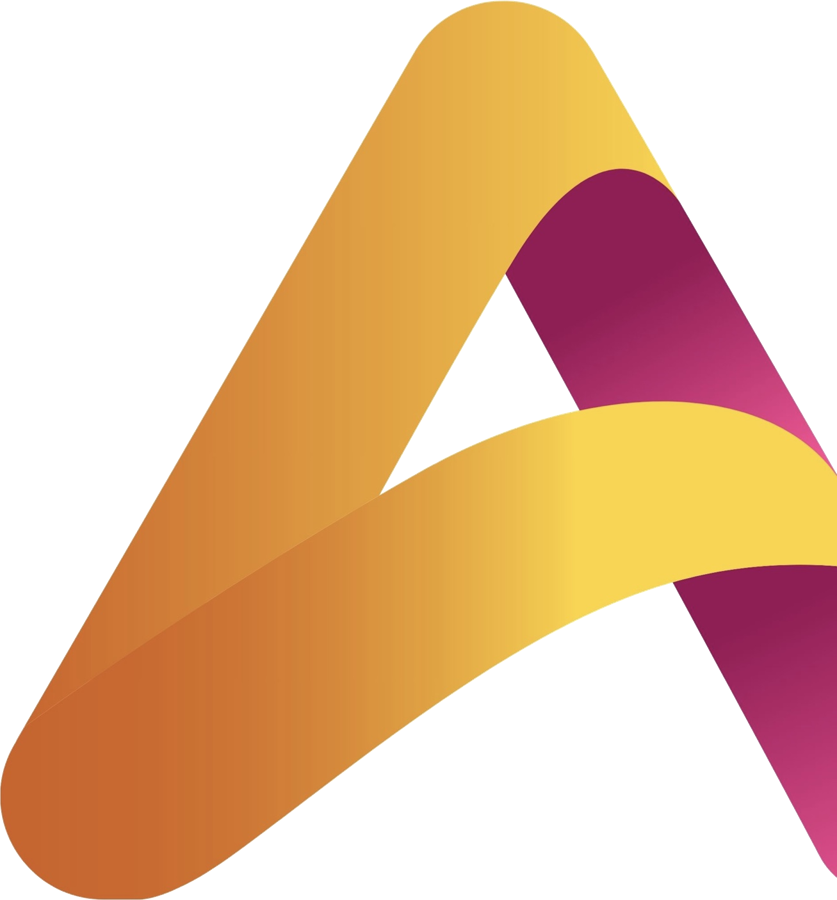
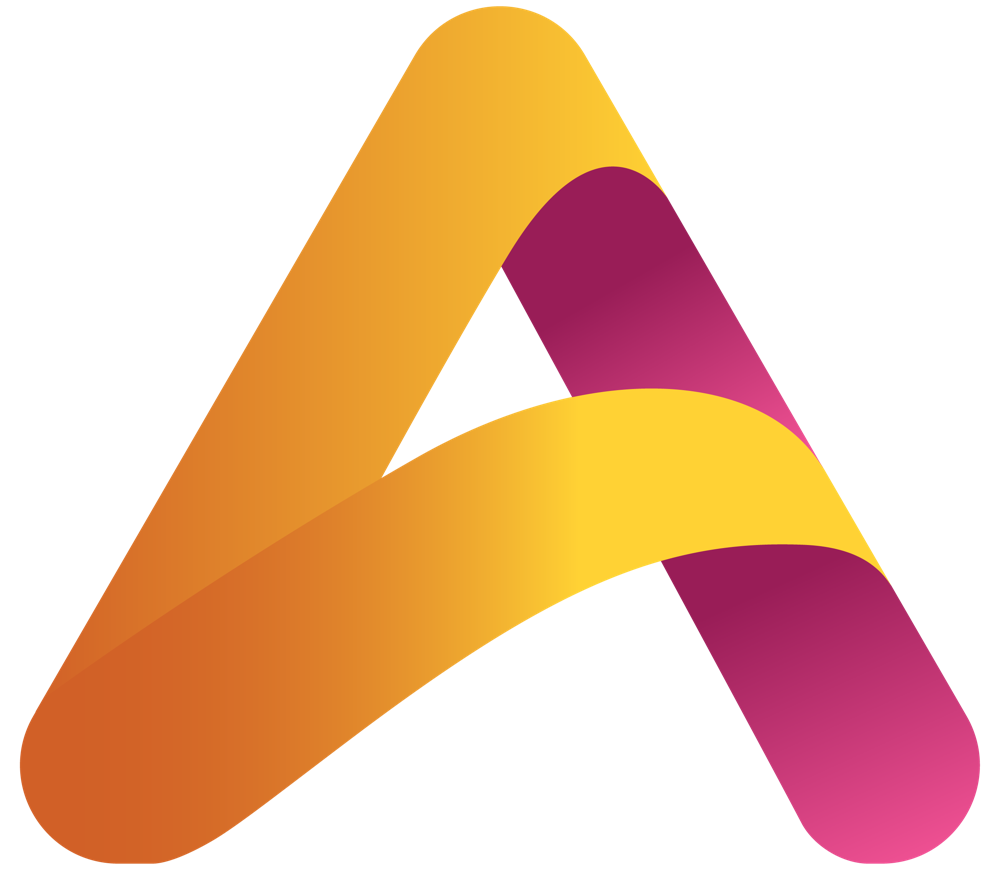
Update hero A mark to full uncut version from A.png

diff --git a/cstar.html b/cstar.html
@@ -336,11 +336,11 @@
 
     .hero-mark {
       position: absolute;
-      right: calc(var(--pad) * -1);
-      top: clamp(1rem, 4vw, 3rem);
-      width: clamp(180px, 24vw, 340px);
+      right: var(--pad);
+      top: clamp(2rem, 5vw, 4rem);
+      width: clamp(180px, 22vw, 320px);
       height: auto;
-      opacity: 0.9;
+      opacity: 0.95;
       pointer-events: none;
     }
 
@@ -1762,7 +1762,7 @@
          SECTION 1B: TUYÊN NGÔN THƯƠNG HIỆU
          =================================================================== -->
     <section class="hero">
-      <img class="hero-mark" src="assets/mark.png" alt="" aria-hidden="true" />
+      <img class="hero-mark" src="assets/mark.png?v=2" alt="" aria-hidden="true" />
       <div class="wrap">
         <div class="reveal">
           <span class="label">Tư vấn & Phát triển Thương hiệu</span>
